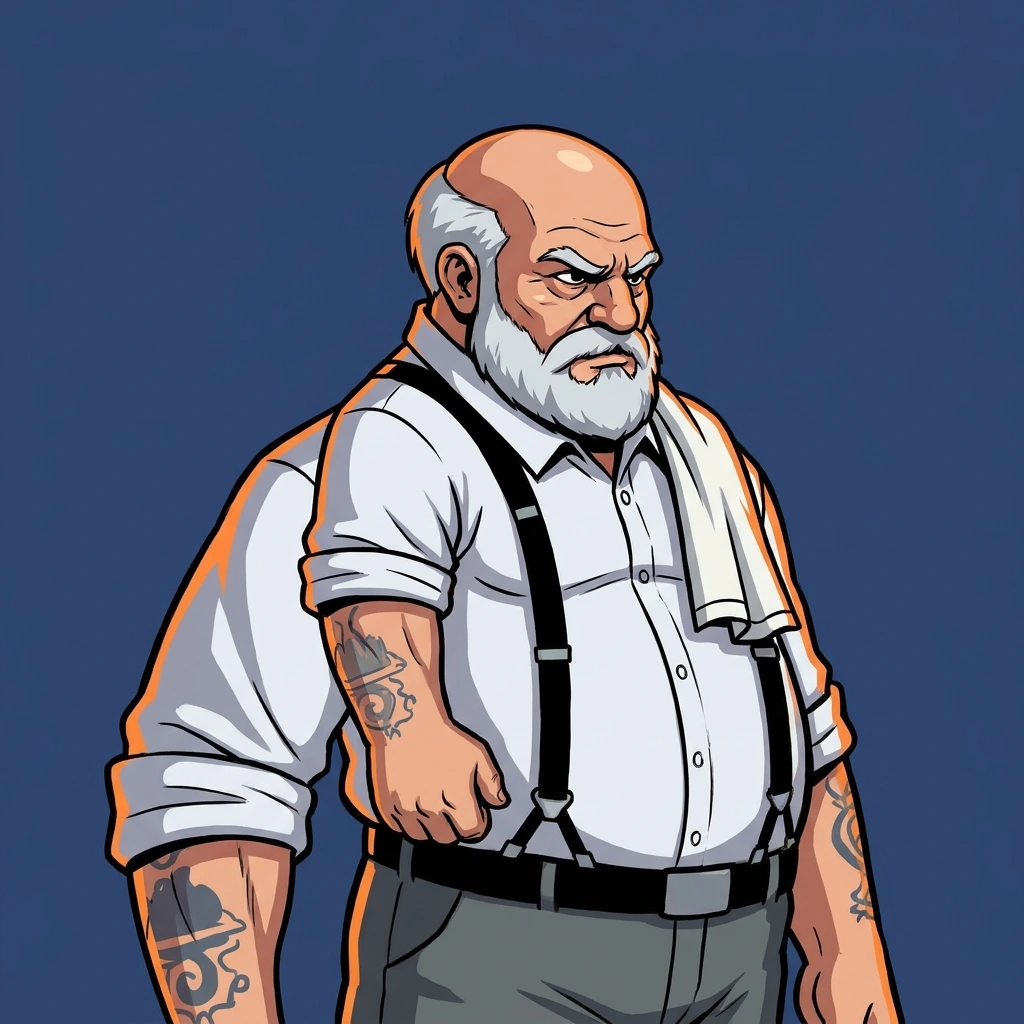
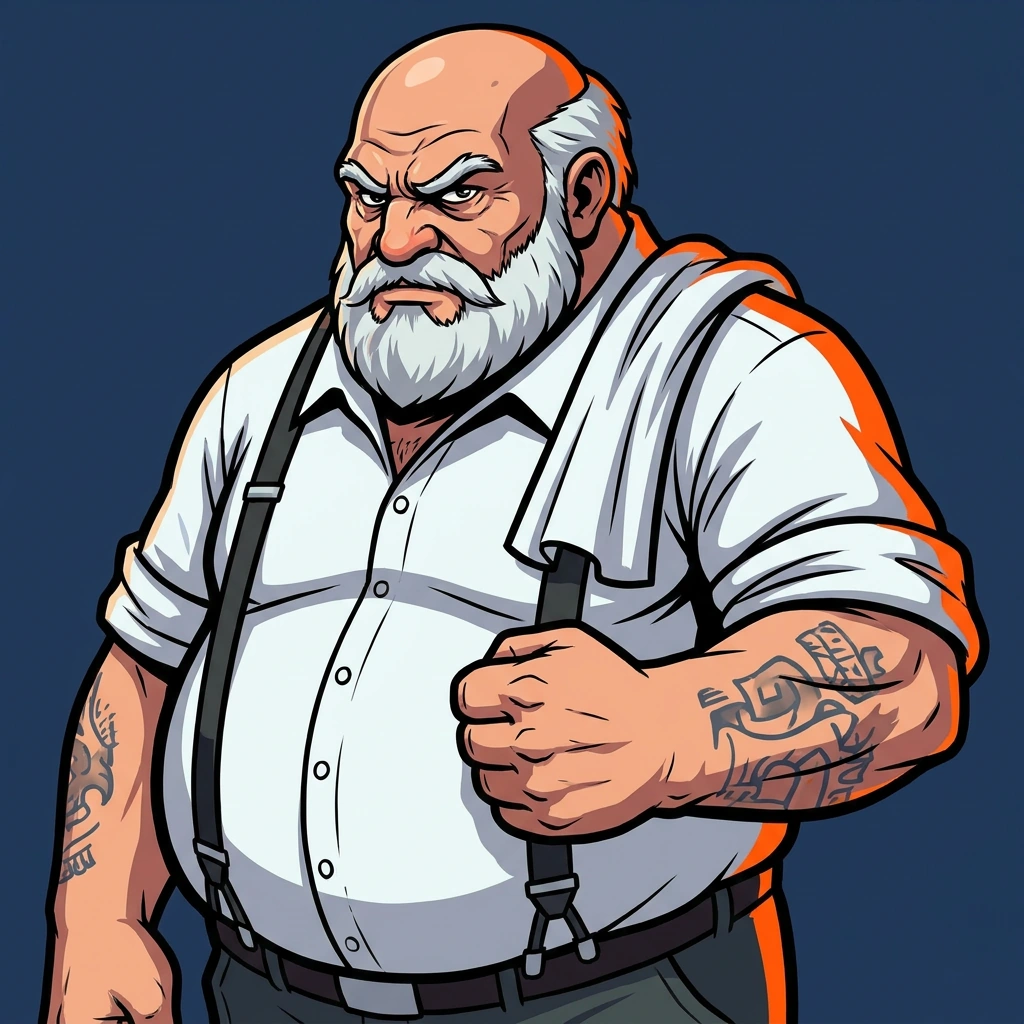
Mick's boss card re-painted with two arms
Claude-Session: https://claude.ai/code/session_01G9hG8tJyx3ogR5TifD2zQK

diff --git a/tools/v74/bosscards.py b/tools/v74/bosscards.py
@@ -9,7 +9,7 @@ b65 = importlib.util.module_from_spec(spec); spec.loader.exec_module(b65)
 NEW = {
     'alan': (['alan'], 'a thin, scruffy, wasted young man in a grey hoodie and ripped jeans, messy blond hair, unshaven, glassy eyes, swaying, fists up'),
     'jeff': (['jeff'], 'a huge heavy young man in a dirty, stretched navy polo shirt and combat trousers, short dark hair, thick tattooed arms, furious'),
-    'mick': (['mick'], 'a huge fat old East End pub landlord: bald on top with white hair at the sides and a big white beard, a white short-sleeved shirt and black braces, tattooed forearms, a bar towel over his shoulder'),
+    'mick': (['mick'], 'a huge fat old East End pub landlord: bald on top with white hair at the sides and a big white beard, a white short-sleeved shirt and black braces, tattooed forearms, a bar towel over his shoulder. He has exactly two arms: his left arm hangs by his side and his right fist is clenched in front of his belly; no extra arms or hands anywhere'),
 }
 b65.CARDS.update(NEW)
 if __name__ == '__main__':
